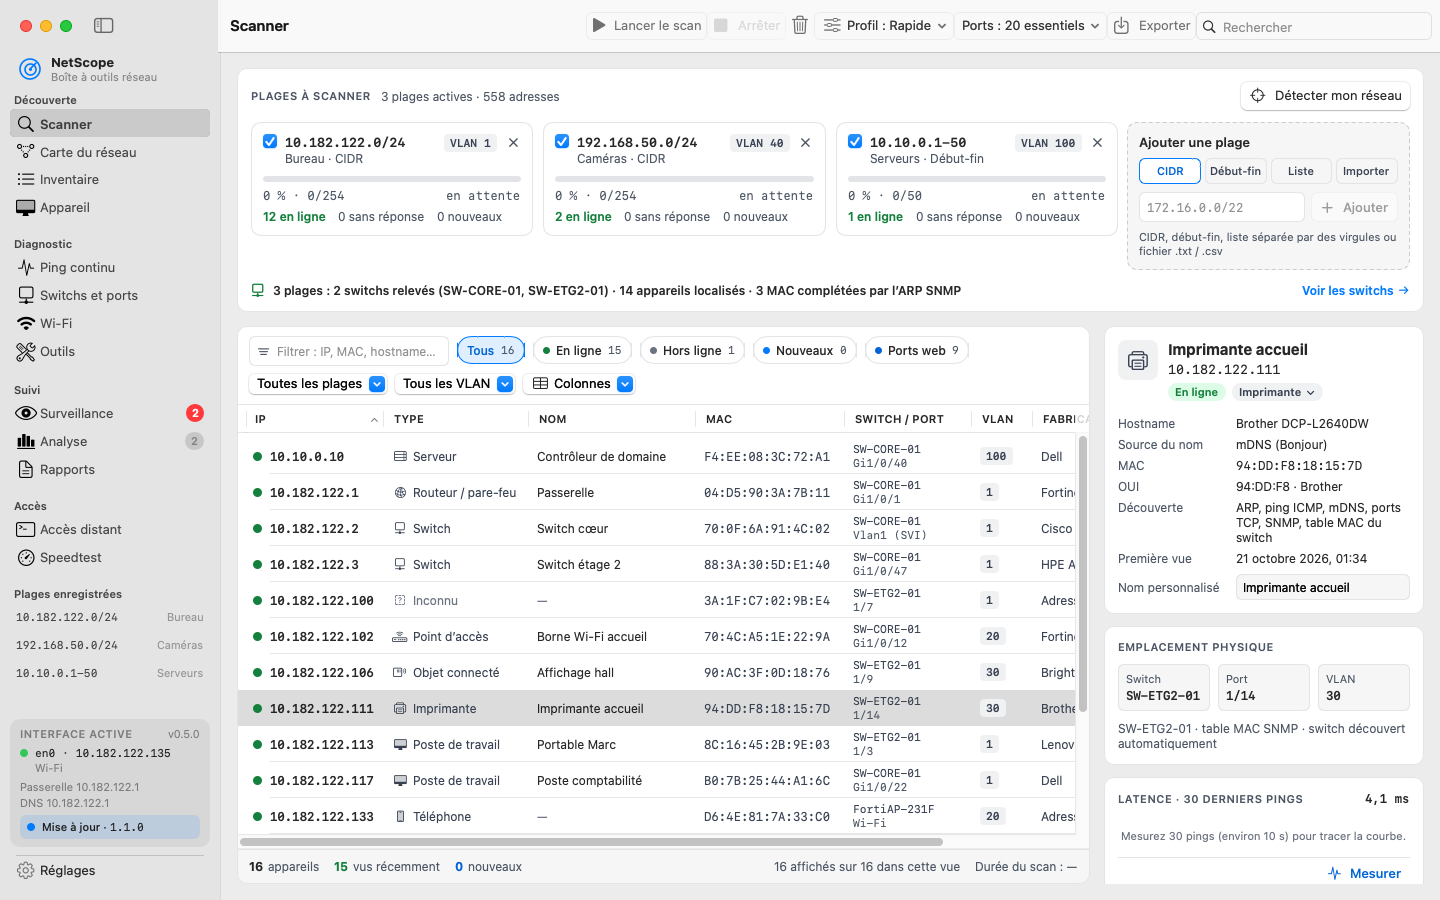
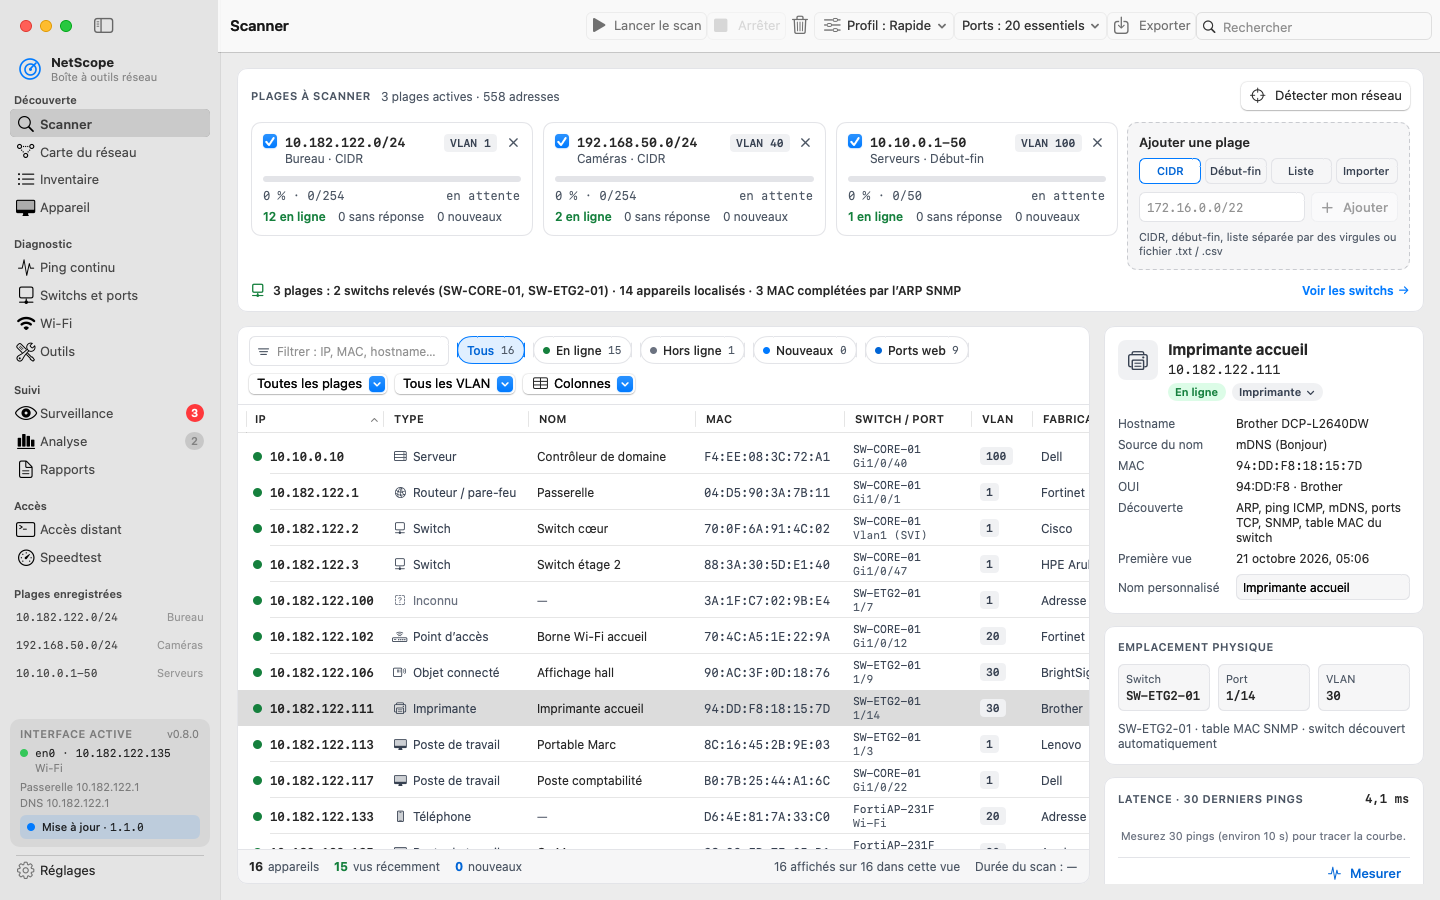
Version 0.8.0

Changed region(s): [[0.1562, 0.9333, 0.6562, 0.9644], [0.75, 0.4978, 0.7812, 0.8089]]

diff --git a/CHANGELOG.md b/CHANGELOG.md
@@ -1,5 +1,90 @@
 # Changements
 
+## 0.8.0 — 2026-11-04
+
+Réglages et alertes : la plupart des sections « Bientôt » des Réglages fonctionnent (notifications,
+raccourcis, export et sauvegarde, identifiants SSH et WMI, méthodes de découverte), et les
+alertes peuvent partir hors du Mac, par courriel ou par webhook Teams, Slack ou JSON.
+
+### Ajouté
+- **Réglages › Notifications** : choix des événements signalés (sonde en panne, en alerte ou
+  rétablie, nouvel appareil sur une plage surveillée, appareil déplacé, conflit d’adresse IP,
+  serveur DHCP non autorisé, incident d’un service en ligne, mise à jour disponible, fin de
+  scan), son au choix (aucun, critiques seulement, tous) et heures « Ne pas déranger » (de… à…,
+  même par-dessus minuit), que les événements critiques peuvent passer outre.
+- Les rafales sont regroupées : au-delà de 3 événements du même type en 5 minutes, une seule
+  notification les résume.
+- Bouton « Envoyer une notification de test », état de l’autorisation de macOS avec un
+  raccourci vers Réglages Système si elle est refusée, et liste des derniers événements avec ce
+  qui en a été fait.
+- Nouvelles notifications : fin de scan (quand NetScope n’est pas au premier plan), conflit
+  d’adresse IP, serveur DHCP non autorisé, mise à jour disponible. Un clic sur une notification
+  ouvre directement la sonde, le service, l’appareil ou l’écran concerné.
+- **Menus Scan, Appareil et Aller** : lancer, arrêter ou relancer un scan, rescanner les ports
+  de la sélection, changer de profil, ping continu, fiche, copier l’IP ou la MAC, ouvrir dans le
+  navigateur, aller à chaque écran (⌘1 à ⌘9), rechercher partout (⌘F), exporter (⌘E),
+  Réglages (⌘,).
+- **Réglages › Raccourcis** : tous les raccourcis se modifient (cliquer puis taper la
+  combinaison) ; les conflits entre raccourcis ou avec macOS sont signalés ; retour aux valeurs
+  par défaut.
+- **Réglages › Export et sauvegarde** : sauvegarde automatique quotidienne et bouton
+  « Sauvegarder maintenant » (réglages, plages, profils, inventaire, historiques de
+  Surveillance, services en ligne, disques, identifiants), en archive .zip ou en dossier daté,
+  avec manifeste ; dossier au choix, nombre de sauvegardes gardées, copie facultative dans
+  iCloud Drive.
+- Liste des sauvegardes (date, type, taille, contenu) avec restauration après confirmation :
+  l’état actuel est d’abord gardé dans une sauvegarde de sécurité, puis NetScope redémarre ; on
+  peut aussi restaurer une sauvegarde venue d’un autre Mac.
+- Format d’export par défaut (CSV, JSON ou PDF) ; export JSON des résultats du Scanner.
+- **Identifiants** : bouton « Tester » pour la communauté SNMP v2c et l’utilisateur SNMP v3,
+  vers l’adresse choisie, qui affiche sysName, sysDescr et la durée de fonctionnement, ou une
+  erreur expliquée (délai, port fermé, utilisateur inconnu, authentification, déchiffrement).
+- **SNMP v3** pris en charge (authentification MD5 à SHA-512, chiffrement DES et AES).
+- **Identifiants SSH et WMI** : liste, mot de passe ou clé ~/.ssh choisie, DOMAINE\utilisateur
+  pour Windows, secrets au Trousseau, test SSH (« uname -a ») et test de joignabilité
+  WMI/WinRM (ports 135, 5985, 5986).
+- **Profils de scan** : choix des méthodes de découverte de chaque profil (ICMP, ARP, présence
+  TCP, UDP, DNS inverse, mDNS, NetBIOS, SNMP, écoute LLDP/CDP passive), appliquées par le
+  Scanner.
+- **Réglages › Alertes**, alertes hors du Mac : par courriel (serveur SMTP, port, STARTTLS sur
+  587 ou TLS sur 465, compte) et par webhook Microsoft Teams (Workflows), Slack ou JSON
+  générique. Désactivées par défaut : rien n’est envoyé tant qu’elles ne sont pas activées.
+- Bouton « Envoyer un test » sur chaque canal, avec confirmation avant l’envoi et résultat
+  affiché sous le bouton.
+- Règles d’envoi : choix des événements (sonde en panne, en alerte ou rétablie ; nouvel
+  appareil ; serveur DHCP non autorisé ; incident d’un service en ligne ; fin de scan), gravité
+  minimale, anti-rafale (au plus une alerte par événement et par intervalle), regroupement en un
+  seul résumé, heures de silence où les alertes critiques peuvent passer quand même.
+- Journal des envois : date, canal, alerte, résultat (envoyée ou échec) et détail, sans aucun
+  secret.
+- Surveillance : l’éditeur de sonde montre où partent les alertes de la sonde (courriel, Teams,
+  Slack…) et permet de l’exclure des alertes ; colonne facultative « Alertes externes » dans le
+  tableau des sondes.
+
+### Modifié
+- Le bouton « Exporter » du Scanner suit le format d’export par défaut.
+- Les profils de scan existants gardent leur comportement : leurs méthodes de découverte
+  reprennent celles d’avant.
+- Le mot de passe SMTP, les adresses des webhooks et l’en-tête d’authentification sont gardés
+  au Trousseau macOS, jamais dans les préférences ni dans le journal. Les sauvegardes ne copient
+  jamais les secrets du Trousseau : seuls les noms des comptes à ressaisir sont notés.
+
+### Corrigé
+- Erreurs d’envoi expliquées en français au lieu d’un code brut : authentification refusée
+  (avec conseil pour Microsoft 365 et Gmail), port bloqué, certificat refusé, relais refusé,
+  webhook révoqué ou introuvable.
+
+### Limites connues
+- Courriel : authentification SMTP par mot de passe seulement (AUTH PLAIN ou LOGIN), pas
+  d’OAuth 2 ; pour Microsoft 365, il faut que l’envoi SMTP authentifié soit permis sur la boîte,
+  et pour Gmail, un mot de passe d’application.
+- WMI : seulement un test de joignabilité (ports 135, 5985, 5986) ; NetScope n’interroge pas
+  encore WMI ni WinRM.
+- Après une restauration, les mots de passe, communautés et jetons sont à ressaisir.
+- Pas encore essayé sur de vrais serveurs SMTP, canaux Teams et Slack, ni de vrais équipements
+  SNMP v3 : essais réels à faire.
+- Toujours à venir dans les Réglages : plusieurs sites et la langue anglaise.
+
 ## 0.7.0 — 2026-11-04
 
 Analyse avancée : capture et inspection de paquets façon Wireshark, et mesure de la vitesse des

diff --git a/docs/A-FAIRE.md b/docs/A-FAIRE.md
@@ -5,7 +5,7 @@
 
 ## Priorités (revues le 4 novembre 2026)
 
-Notes 1 à 5 : livrées dans la 0.3.0 ; note 18 dans la 0.3.1 ; notes 8, 19, 20 et 9 dans la 0.4.0 ; types Console de jeu et Domotique dans la 0.4.1 ; notes 12, 21, 17 et 16 dans la 0.5.0 ; notes 15 et 14 dans la 0.6.0 ; notes 7 et 22 dans la 0.7.0.
+Notes 1 à 5 : livrées dans la 0.3.0 ; note 18 dans la 0.3.1 ; notes 8, 19, 20 et 9 dans la 0.4.0 ; types Console de jeu et Domotique dans la 0.4.1 ; notes 12, 21, 17 et 16 dans la 0.5.0 ; notes 15 et 14 dans la 0.6.0 ; notes 7 et 22 dans la 0.7.0 ; notes 13 et 23 dans la 0.8.0.
 
 1. **0.4.x, retours d'essai** : essais réels de la 0.3.x (localisation, DHCP, capture,
    notifications, VNC, mise à jour) et de la 0.4.0 (menus de colonnes, type, ports, sombre) ;
@@ -17,8 +17,9 @@ Notes 1 à 5 : livrées dans la 0.3.0 ; note 18 dans la 0.3.1 ; notes 8, 19, 20 
    réels à faire (pages d’état, Microsoft Graph, listes noires, SMTP, propagation DNS).
 4. ~~**0.7.0, analyse avancée**~~ : livrée le 4 novembre 2026 (notes 7 et 22) ; essais
    réels à faire (vraie capture, ChmodBPF, NAS SMB/NFS, dossiers OneDrive et iCloud Drive).
-5. **0.8.0, réglages et alertes** : note 13 (sauvegarde, notifications, raccourcis…), alertes
-   par courriel et webhook.
+5. ~~**0.8.0, réglages et alertes**~~ : livrée le 4 novembre 2026 (notes 13 et 23) ; essais
+   réels à faire (vrais serveurs SMTP, Microsoft 365 et Gmail, canaux Teams et Slack, SNMP v3,
+   SSH, restauration d’une sauvegarde sur un autre Mac).
 6. **Phases 2 à 4, ordre libre** : notes 6 (RustDesk), 10 (Inventaire), 11 (Ping continu).
 
 ## 1. Wi-Fi : « Autoriser la localisation » n'ouvre pas la fenêtre d'autorisation
@@ -243,7 +244,10 @@ Notes 1 à 5 : livrées dans la 0.3.0 ; note 18 dans la 0.3.1 ; notes 8, 19, 20 
 - Limite : un Mac ne consomme pas de PoE ; pour lui, la réponse dit seulement si le port de la
   switch est PoE et s'il fournit du courant.
 
-## 13. Réglages encore « Bientôt » — À PLANIFIER (demande de Dany)
+## 13. Réglages encore « Bientôt » (demande de Dany)
+
+**Livrée dans la 0.8.0** (4 novembre 2026) ; restent à venir : plusieurs sites (avec la note 10)
+et la langue anglaise (reportée). Essais réels à faire (sauvegarde et restauration, SNMP v3, SSH).
 
 Sections de Réglages à réaliser, fidèles au croquis `docs/croquis/Reglages.dc.html` :
 
@@ -442,3 +446,17 @@ Dropbox, Zscaler, fournisseurs Internet courants… liste modifiable.
 - Historique des tests par emplacement, export CSV, ajout possible dans un Rapport (note 4).
 - Tests : calculs de débit/IOPS sur des durées fixes, choix des emplacements, nettoyage, sans
   écrire de gros fichiers.
+
+## 23. Alertes par courriel et webhook (demande de Dany)
+
+**Livrée dans la 0.8.0** (4 novembre 2026) ; essais réels à faire (vrais serveurs SMTP,
+Microsoft 365 et Gmail, canaux Teams et Slack).
+
+- Réglages › Alertes : courriel (SMTP, STARTTLS sur 587 ou TLS sur 465, compte) et webhooks
+  Microsoft Teams (Workflows), Slack ou JSON générique ; désactivées par défaut.
+- Secrets (mot de passe SMTP, adresses des webhooks, en-tête d’authentification) au Trousseau.
+- Règles : événements, gravité minimale, anti-rafale, regroupement, heures de silence ; journal
+  des envois sans secret ; erreurs expliquées en français.
+- Surveillance : canaux de chaque sonde dans l’éditeur, exclusion possible, colonne « Alertes
+  externes ».
+- Limites : authentification SMTP par mot de passe seulement (pas d’OAuth 2).

diff --git a/README.md b/README.md
@@ -8,7 +8,7 @@ surveillance, rapports et accès distant, le tout en français.
 
 ## Fonctions
 
-Version 0.7.0 : les quatorze écrans fonctionnent, au style Mac (mode sombre, petite fenêtre), avec des tableaux à colonnes réglables. Nouveau dans la 0.7.0 : « Capture de paquets » façon Wireshark (filtres, détail par couche, vue hexadécimale, suivi de flux, statistiques, .pcap) et « Vitesse des disques » (disques internes et externes, partages réseau, dossiers nuage) dans la Boîte à outils. Depuis la 0.6.0 : « État des services » (Microsoft 365, Azure, Apple, AWS, Google, Cloudflare… vus par leur page officielle et testés depuis votre réseau) et un groupe « Courriel » dans la Boîte à outils (santé d’un domaine sur 100, MX, listes noires, SPF/DKIM/DMARC, diagnostic SMTP, analyse d’en-têtes), avec une Recherche DNS plus complète (SOA, SRV, CAA, DNSSEC, comparaison et propagation). La suite prévue est dans
+Version 0.8.0 : les quatorze écrans fonctionnent, au style Mac (mode sombre, petite fenêtre), avec des tableaux à colonnes réglables. Nouveau dans la 0.8.0 : des Réglages complets (notifications choisies avec heures « Ne pas déranger », raccourcis modifiables et menus Scan, Appareil et Aller, sauvegarde automatique avec restauration, test SNMP v2c/v3, identifiants SSH et WMI, méthodes de découverte par profil) et des alertes hors du Mac par courriel et webhook Teams, Slack ou JSON. Depuis la 0.7.0 : « Capture de paquets » façon Wireshark (filtres, détail par couche, vue hexadécimale, suivi de flux, statistiques, .pcap) et « Vitesse des disques » (disques internes et externes, partages réseau, dossiers nuage) dans la Boîte à outils. Depuis la 0.6.0 : « État des services » (Microsoft 365, Azure, Apple, AWS, Google, Cloudflare… vus par leur page officielle et testés depuis votre réseau) et un groupe « Courriel » dans la Boîte à outils (santé d’un domaine sur 100, MX, listes noires, SPF/DKIM/DMARC, diagnostic SMTP, analyse d’en-têtes), avec une Recherche DNS plus complète (SOA, SRV, CAA, DNSSEC, comparaison et propagation). La suite prévue est dans
 [docs/A-FAIRE.md](docs/A-FAIRE.md).
 
 - **Scanner multi-plages qui se remplit tout seul** : plusieurs plages à la fois, ping ICMP
